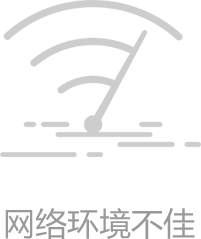
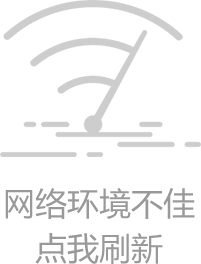
连接网络自动刷新
连接网络自动刷新

diff --git a/pjzb_App/app/app/main/user/index.js b/pjzb_App/app/app/main/user/index.js
@@ -30,6 +30,8 @@
   import SLBaoPage from './SLBaoPage';
   import Loan from './LoanManagement';
   import {StyleConfig} from '../../style';
+  import Error from '../error/Error.js';
+  import NetUtil from '../../utils/NetUtil.js';
   const oPx = StyleConfig.oPx;
   export default class User extends Component {
     constructor(props){
@@ -60,6 +62,8 @@
         zijinjl: '暂无资金记录', // 资金记录
         zaiquanzr: '债权转让 周转灵活', // 债权转让
         jiekuangl: '借款灵活 还款方便', // 借款管理
+        // 是否发生网络错误
+        isError: false,
       }
     }
     componentDidMount(){
@@ -85,6 +89,8 @@
           zijinjl: data.zijinjl?data.zijinjl:this.state.zijinjl,
           zaiquanzr: data.zaiquanzr?data.zaiquanzr:this.state.zaiquanzr,
           jiekuangl: data.jiekuangl?data.jiekuangl:this.state.jiekuangl,
+          // 网络正常
+          isError: false,
         });
         if(data.headImg){
           this.setState({leftImageSource:{uri:data.headImg}});
@@ -93,7 +99,9 @@
         if(data.ipayAccount!=''){
           this.setState({isRegistHuiFu:true});
         }
-      },(error)=>{});
+      },(error)=>{
+          this.setState({isError: true, animating:false,});
+      });
     }
 
     // 每隔五分钟请求一次数据
@@ -222,73 +230,79 @@
         <View style={{flex:1}}>
           <NavigationBar
             title={"我的"}
-            leftShowIcon={true}
+            leftShowIcon={this.state.isError?false:true}
             leftImageSource={this.state.leftImageSource}
             leftStyle={{borderRadius:23/oPx}}
-            leftBtnFunc={this._selfCenter.bind(this)}
-            rightShowIcon={true}
+            leftBtnFunc={this.state.isError?null:this._selfCenter.bind(this)}
+            rightShowIcon={this.state.isError?false:true}
             rightImageSource={rightImageSource}
-            rightBtnFunc={this._settings.bind(this)}
+            rightBtnFunc={this.state.isError?null:this._settings.bind(this)}
             beginColor={'#f3553e'}
             endColor={'#f14e40'}
           />
-        <ScrollView style={styles.container}
-          refreshControl={
-           <RefreshControl
-             refreshing={this.state.isRefreshing}
-             onRefresh={this._onRefresh.bind(this)}
-             tintColor="#ff0000"
-             title="刷新中..."
-             titleColor="#999"
-           />}>
-          <LinearGradient colors={['#f14e41', '#eb3549']} style={styles.top}>
-            <View style={styles.total}>
-              <View style={styles.totalAmtView}><Text style={styles.totalAmt}>{Utils.formatCurrency(this.state.allTotal)}</Text></View>
-              <View style={styles.totalTextView}><Text style={styles.totalText}>总资产(元)</Text></View>
-            </View>
-            <View style={styles.userAmt}>
-              <View style={styles.userLeft}>
-                <View style={styles.userNumView}><Text style={styles.userNum}>{Utils.formatCurrency(this.state.usableSum)}</Text></View>
-                <View style={styles.userTextView}><Text style={styles.userText}>可用余额(元)</Text></View>
+           {
+            this.state.isError
+            ?
+            <Error onPress={this._getState.bind(this)} />
+            :
+            <ScrollView style={styles.container}
+              refreshControl={
+               <RefreshControl
+                 refreshing={this.state.isRefreshing}
+                 onRefresh={this._onRefresh.bind(this)}
+                 tintColor="#ff0000"
+                 title="刷新中..."
+                 titleColor="#999"
+               />}>
+              <LinearGradient colors={['#f14e41', '#eb3549']} style={styles.top}>
+                <View style={styles.total}>
+                  <View style={styles.totalAmtView}><Text style={styles.totalAmt}>{Utils.formatCurrency(this.state.allTotal)}</Text></View>
+                  <View style={styles.totalTextView}><Text style={styles.totalText}>总资产(元)</Text></View>
+                </View>
+                <View style={styles.userAmt}>
+                  <View style={styles.userLeft}>
+                    <View style={styles.userNumView}><Text style={styles.userNum}>{Utils.formatCurrency(this.state.usableSum)}</Text></View>
+                    <View style={styles.userTextView}><Text style={styles.userText}>可用余额(元)</Text></View>
+                  </View>
+                  <View style={styles.line}>
+                  </View>
+                  <View style={styles.userRight}>
+                    <View style={styles.userNumView}><Text style={styles.userNum}>{Utils.formatCurrency(this.state.forPaySum)}</Text></View>
+                    <View style={styles.userTextView}><Text style={styles.userText}>待收总额(元)</Text></View>
+                  </View>
+                </View>
+              </LinearGradient>
+              <View style={{backgroundColor: '#fff'}}>
+                <View style={styles.userCenter}>
+                  <View style={{flex:1}}><Image style={styles.user_icon} source={require('../../images/icon/icon_user_pay.png')}/></View>
+                  <View style={[styles.line,{height:85/oPx,backgroundColor:'#c8c9cd'}]}></View>
+                  <View style={{flex:1}}><Image style={styles.user_icon} source={require('../../images/icon/icon_user_cash.png')}/></View>
+                </View>
+                <View style={styles.userCenter}>
+                  <View style={{flex:1}}>
+                    <TouchableOpacity onPress={this._toIpay.bind(this)} style={styles.button}>
+                      <Text style={styles.button_text}>充值</Text>
+                    </TouchableOpacity>
+                  </View>
+                  <View style={{flex:1}}>
+                    <TouchableOpacity onPress={this._toCash.bind(this)} style={[styles.button,{backgroundColor:'#ffa44b',shadowColor:'#ffa44b',}]}>
+                      <Text style={styles.button_text}>提现</Text>
+                    </TouchableOpacity>
+                  </View>
+                </View>
               </View>
-              <View style={styles.line}>
-              </View>
-              <View style={styles.userRight}>
-                <View style={styles.userNumView}><Text style={styles.userNum}>{Utils.formatCurrency(this.state.forPaySum)}</Text></View>
-                <View style={styles.userTextView}><Text style={styles.userText}>待收总额(元)</Text></View>
-              </View>
-            </View>
-          </LinearGradient>
-          <View style={{backgroundColor: '#fff'}}>
-            <View style={styles.userCenter}>
-              <View style={{flex:1}}><Image style={styles.user_icon} source={require('../../images/icon/icon_user_pay.png')}/></View>
-              <View style={[styles.line,{height:85/oPx,backgroundColor:'#c8c9cd'}]}></View>
-              <View style={{flex:1}}><Image style={styles.user_icon} source={require('../../images/icon/icon_user_cash.png')}/></View>
-            </View>
-            <View style={styles.userCenter}>
-              <View style={{flex:1}}>
-                <TouchableOpacity onPress={this._toIpay.bind(this)} style={styles.button}>
-                  <Text style={styles.button_text}>充值</Text>
-                </TouchableOpacity>
-              </View>
-              <View style={{flex:1}}>
-                <TouchableOpacity onPress={this._toCash.bind(this)} style={[styles.button,{backgroundColor:'#ffa44b',shadowColor:'#ffa44b',}]}>
-                  <Text style={styles.button_text}>提现</Text>
-                </TouchableOpacity>
-              </View>
-            </View>
-          </View>
-          <View style={styles.userListTap}>
-            
-              {/*this.state.funList.map((row, index) =>{ */}
-                  {/*return this._funList(row,index); */}
-              {/*}) */}
-           
+              <View style={styles.userListTap}>
+                
+                  {/*this.state.funList.map((row, index) =>{ */}
+                      {/*return this._funList(row,index); */}
+                  {/*}) */}
+               
 
-            { this._getUserBottomView() }
+                { this._getUserBottomView() }
 
-          </View>
-         </ScrollView>
+              </View>
+             </ScrollView>
+           }
          <Loading show={this.state.animating} top={true}/>
        </View>
       );

diff --git a/pjzb_App/app/app/main/find/GSDTIntroduction2.js b/pjzb_App/app/app/main/find/GSDTIntroduction2.js
@@ -14,14 +14,16 @@
     ActivityIndicator,
     WebView,
  } from 'react-native';
- import {StyleConfig} from '../../style/index';
+import {StyleConfig} from '../../style/index';
 import Request from '../../utils/Request';
 import Loading from '../../components/Loading';
 import NavigationBar from '../../components/NavigationBar';
 import {toastShort} from '../../utils/Toast';
 import { goBack } from '../../utils/NavigatorBack';
 import GgxqPage from '../find/ggxqPage';
- const oPx = StyleConfig.oPx;
+import Error from '../error/Error.js';
+
+const oPx = StyleConfig.oPx;
 let ds = new ListView.DataSource({rowHasChanged: (r1, r2) => r1 !== r2});
 export default class GSDTIntroduction extends Component {
     constructor(props){
@@ -35,6 +37,8 @@ export default class GSDTIntroduction extends Component {
             totalPageNum:0,
             isShowBottomRefresh:true,
             onPress: null,
+            // 是否发生网络错误
+            isError: false,
         }
     }
 
@@ -47,9 +51,10 @@ export default class GSDTIntroduction extends Component {
 
     //获取数据
     _getData(flag, curPage){
+        curPage = curPage?curPage:1;
         Request.post('getMediaReport.do',{curPage:curPage},(data)=>{
             if (data.error == 0) {
-                this.setState({totalPageNum:data.pageBean.totalPageNum});
+                this.setState({totalPageNum:data.pageBean.totalPageNum,isError: false});
                 if(data.pageBean.totalPageNum==1){
                     this.setState({isShowBottomRefresh:false});
                 }
@@ -71,7 +76,7 @@ export default class GSDTIntroduction extends Component {
                 }
             }
         },(error)=>{
-            console.log(error);
+            this.setState({isError: true, animating:false});
         });
     }
 
@@ -112,25 +117,31 @@ export default class GSDTIntroduction extends Component {
             return <Loading show={this.state.animating}/>
         }
         return <View style={{flex:1}}>
-            <ListView
-                dataSource={this.state.dataSource}
-                renderRow={this._renderRow.bind(this)}
-                onEndReached={this._end.bind(this)}
-                onEndReachedThreshold={30}
-                enableEmptySections={true}
-                renderFooter={this._renderFooter.bind(this)}
-                refreshControl={
-                    <RefreshControl
-                        refreshing={this.state.isRefreshing}
-                        onRefresh={this._onRefresh.bind(this)}
-                        tintColor="#ff0000"
-                        title="刷新中..."
-                        titleColor="#999"
-                        colors={['#ff0000', '#00ff00', '#0000ff']}
-                        progressBackgroundColor="#ffff00"
-                    />
-                }
-            />
+            {
+                this.state.isError
+                ?
+                <Error onPress={this._getData.bind(this)} />
+                :
+                <ListView
+                    dataSource={this.state.dataSource}
+                    renderRow={this._renderRow.bind(this)}
+                    onEndReached={this._end.bind(this)}
+                    onEndReachedThreshold={30}
+                    enableEmptySections={true}
+                    renderFooter={this._renderFooter.bind(this)}
+                    refreshControl={
+                        <RefreshControl
+                            refreshing={this.state.isRefreshing}
+                            onRefresh={this._onRefresh.bind(this)}
+                            tintColor="#ff0000"
+                            title="刷新中..."
+                            titleColor="#999"
+                            colors={['#ff0000', '#00ff00', '#0000ff']}
+                            progressBackgroundColor="#ffff00"
+                        />
+                    }
+                />
+            }
         </View>
     }
 

diff --git a/pjzb_App/app/app/main/error/Error.js b/pjzb_App/app/app/main/error/Error.js
@@ -30,6 +30,20 @@ export default class Error extends Component {
     };
   }
 
+  componentDidMount() {
+    // 监听网络连接，连接网络自动刷新数据
+    NetInfo.addEventListener(
+      'connectionChange',
+      this.props.onPress
+    );
+
+  }
+
+  componentWillUnmount() {
+    // 当组件销毁时remove掉监听事件
+    NetInfo.removeEventListener('connectionChange');
+  }
+
   onPress = () => {
     this.props.onPress();
 
@@ -43,9 +57,7 @@ export default class Error extends Component {
     // 判断如果没有网络情况下点击刷新，提示用户当前无网络
     NetInfo.isConnected.fetch().done(function(isConnected){
         if(!isConnected) {
-          alert('error' + isConnected)
           NetInfo.fetch().done(function(reachability){
-            alert('error' +reachability)
             if(reachability == 'none' || reachability == 'NONE'){
               toastShort('当前设备未连接网络',0);
             }
@@ -57,16 +69,14 @@ export default class Error extends Component {
  
   render() {
     return (
-		  <View style={styles.body}>
-        <TouchableOpacity activeOpacity={0.5} onPress={() => this.onPress()}>
-			     <Image style={styles.image} source={require('../../images/error/image_error_notNetContent.png')} />
-            <View style={styles.activityView}>
-              {
-                this.state.isShow ? <ActivityIndicator /> : null
-              }
-            </View>
-        </TouchableOpacity>
-	    </View>
+      <TouchableOpacity style={styles.body} activeOpacity={0.8} onPress={() => this.onPress()}>
+		     <Image style={styles.image} source={require('../../images/error/image_error_notNetContent.png')} />
+          <View style={styles.activityView}>
+            {
+              this.state.isShow ? <ActivityIndicator /> : null
+            }
+          </View>
+      </TouchableOpacity>
     );
   }
 }
@@ -84,7 +94,7 @@ const styles = StyleSheet.create({
     },
     image: {
     	width: 201/oPx,
-    	height: 239/oPx,
+    	height: 264/oPx,
       marginBottom: 30/oPx,
     },
     activityView: {

diff --git a/pjzb_App/app/app/utils/Request.js b/pjzb_App/app/app/utils/Request.js
@@ -3,11 +3,11 @@
  */
  // let HOST='http://192.168.1.168:8080/pjzb';
  
-let HOST='http://192.168.1.124:8080/pjzb'; 
+// let HOST='http://192.168.1.124:8080/pjzb';
 
 // let HOST='http://120.78.89.202:8080/pjzb';
 
-// let HOST='https://www.pujinziben.com';
+let HOST='https://www.pujinziben.com';
 let URL = HOST+'/reactapp/';
 
 import {
@@ -47,9 +47,7 @@ let Request = {
 
         NetInfo.isConnected.fetch().done(function(isConnected){
           if (isConnected) {
-            alert('request' + isConnected);
             NetInfo.fetch().done(function(reachability){
-              alert('request' + reachability);
               if(reachability != 'none' && reachability != 'NONE'){
                 toastShort('请求超时，请重试或检查您的网络设置',0);
               }

diff --git a/pjzb_App/app/app/main/appMain.js b/pjzb_App/app/app/main/appMain.js
@@ -81,9 +81,7 @@
                 ]);
               }
             }, (error) => {
-              Alert.alert('提示', '已断开网络连接，请检查您的网络设置', [
-                    {text: '好的'},
-                ]);
+              this.setState({ selectedTab: 'user' });
             });
           }
        }else{
